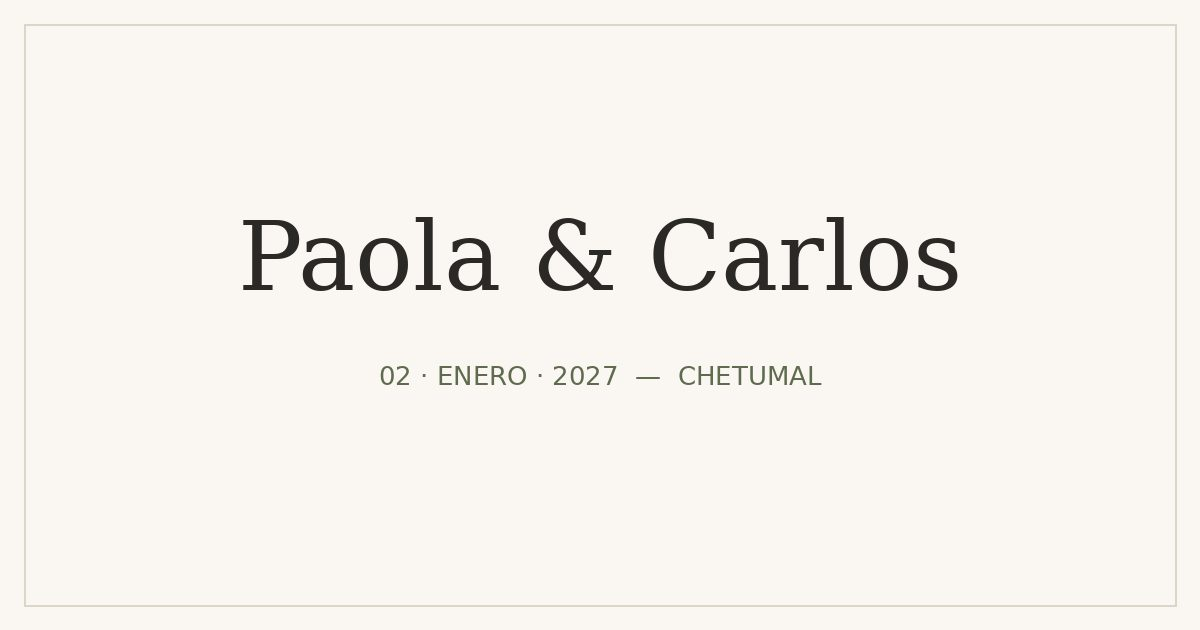
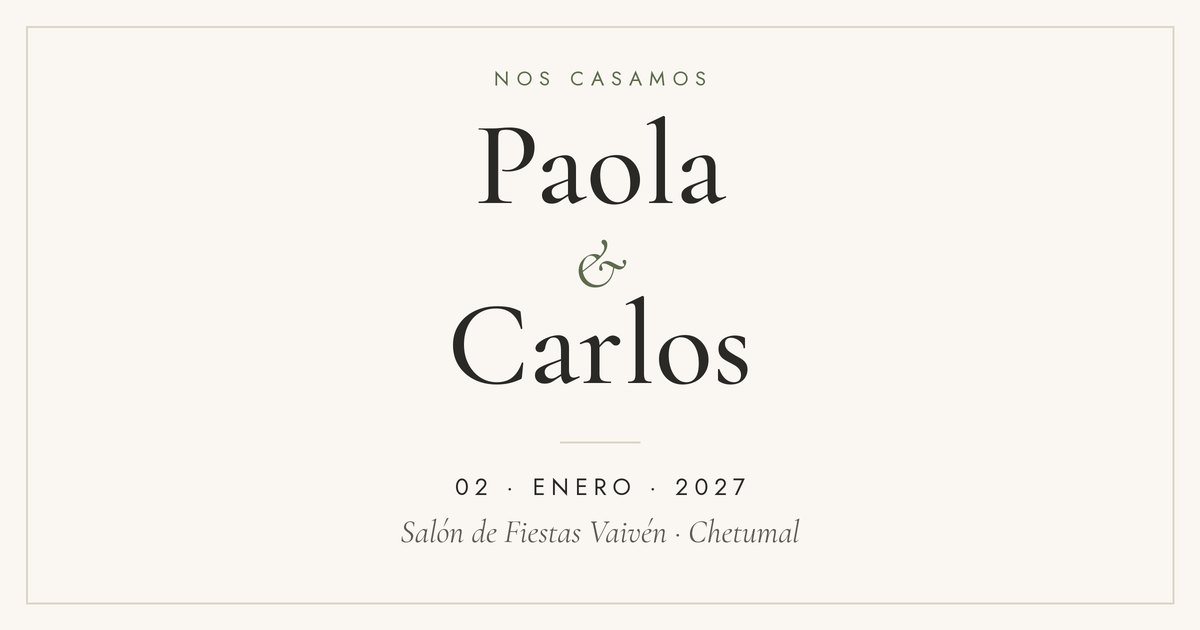
Add files via upload

diff --git a/js/config.js b/js/config.js
@@ -36,12 +36,22 @@ const CONFIG = {
     mapaEmbedURL: ""
   },
 
+  /* ---------------- BIENVENIDA ----------------
+     Aparece justo después de la portada. Cada elemento de "parrafos" es un párrafo. */
+  bienvenida: {
+    titulo: "Bienvenidos a nuestra boda",
+    parrafos: [
+      "Únanse a nosotros mientras comenzamos nuestro próximo capítulo juntos.",
+      "Tienen un lugar especial en nuestros corazones; por eso queremos que sean testigos del momento en que digamos: «¡Sí, acepto!»"
+    ]
+  },
+
   /* ---------------- TEXTOS POÉTICOS ----------------
      Frases breves que acompañan cada sección. Puedes cambiarlas o dejar ""
      para ocultar cualquiera. Todas son originales, salvo la de Bécquer
      (dominio público). */
   poesia: {
-    hero: "Una tarde de enero, frente a quienes más queremos, diremos que sí.",
+    hero: "Frente a la bahía, al caer la tarde.",
     epigrafe: {
       versos: [
         "Por una mirada, un mundo;",
@@ -111,19 +121,13 @@ const CONFIG = {
   /* ---------------- CÓDIGO DE VESTIMENTA ---------------- */
   vestimenta: {
     tipo: "Formal",
-    descripcion: "Traje para ellos; vestido largo o de cóctel para ellas. La celebración es en interior.",  // PENDIENTE: confirmar
-    sugeridos: [
-      { nombre: "Verde olivo", hex: "#6B7350" },
-      { nombre: "Azul bahía",  hex: "#3F5F73" },
-      { nombre: "Terracota",   hex: "#B4694A" },
-      { nombre: "Arena",       hex: "#D9C7A7" },
-      { nombre: "Gris carbón", hex: "#3A3A3A" }
-    ],
-    noRecomendados: [
-      { nombre: "Blanco",  hex: "#FFFFFF", nota: "Reservado para la novia" },
-      { nombre: "Marfil",  hex: "#F3EBDD", nota: "" },
-      { nombre: "Champán", hex: "#E8D7B9", nota: "" }
-    ]
+    descripcion: "Los invitamos a vestir de manera formal pero cómoda. Nuestro único deseo es que se sientan increíbles y listos para celebrar con nosotros. Siéntanse libres de elegir su mejor conjunto.",
+    // Recomendación práctica (deja "" para ocultarla)
+    aviso: "Estaremos frente a la Bahía de Chetumal: habrá viento y seguramente estará fresco. Les sugerimos llevar un suéter, saco o chal ligero.",
+    // Paletas de color opcionales. Si las dos listas están vacías, no se muestran.
+    // Formato: { nombre: "Verde olivo", hex: "#6B7350", nota: "" }
+    sugeridos: [],
+    noRecomendados: []
   },
 
   /* ---------------- GALERÍA ----------------
@@ -141,22 +145,27 @@ const CONFIG = {
   /* ---------------- HOSPEDAJE ---------------- */
   hospedaje: {
     intro: "Algunas opciones para quienes nos visitan desde fuera de Chetumal.",
+    // Campos opcionales por hotel: nota (texto breve) y boton (texto del botón).
     hoteles: [
-      { nombre: "Fiesta Inn Chetumal",              distancia: "Distancia por confirmar", nota: "", url: "https://www.google.com/maps/search/?api=1&query=Fiesta+Inn+Chetumal" },             // PENDIENTE
-      { nombre: "Hotel Los Cocos",                  distancia: "Distancia por confirmar", nota: "", url: "https://www.google.com/maps/search/?api=1&query=Hotel+Los+Cocos+Chetumal" },         // PENDIENTE
-      { nombre: "Holiday Inn Chetumal Puerta Maya", distancia: "Distancia por confirmar", nota: "", url: "https://www.google.com/maps/search/?api=1&query=Holiday+Inn+Chetumal+Puerta+Maya" } // PENDIENTE
+      { nombre: "Hotel Urban101 Chetumal", url: "https://maps.app.goo.gl/TxBWssqMbcDaNdRg9" },
+      { nombre: "Fiesta Inn Chetumal",     url: "https://www.google.com/maps/search/?api=1&query=Fiesta+Inn+Chetumal" },
+      { nombre: "Hotel Los Cocos",         url: "https://www.google.com/maps/search/?api=1&query=Hotel+Los+Cocos+Chetumal" }
     ]
   },
 
   /* ---------------- MESA DE REGALOS ---------------- */
   regalos: {
-    mensaje: "Su presencia es lo más importante. Si desean hacernos un regalo, dejamos estas opciones.",
+    mensaje: "El mejor regalo que podemos recibir en este día tan especial es su presencia y sus buenos deseos. Si además desean tener un detalle con nosotros, ponemos a su disposición nuestra wishlist.",
     enlaces: [
-      // PENDIENTE: agrega aquí tus mesas de regalos reales, por ejemplo:
-      // { nombre: "Mesa de regalos Liverpool", detalle: "Evento n.º 00000000", url: "https://mesaderegalos.liverpool.com.mx/" },
+      { nombre: "Nuestra wishlist", detalle: "Mesa de regalos en Amazon", url: "https://www.amazon.com.mx/wedding/guest-view/2US8J5QRJHBU6" }
+    ],
+    // Párrafos que aparecen debajo de los enlaces
+    notas: [
+      "O, si lo prefieren, contaremos con un cofre con sobres para efectivo.",
+      "Gracias por formar parte de nuestras vidas."
     ],
     transferencia: {
-      mostrar: false,                // PENDIENTE: cambiar a true cuando tengas los datos
+      mostrar: false,                // true para mostrar datos bancarios
       banco: "Nombre del banco",
       titular: "Nombre del titular",
       clabe: "000000000000000000",

diff --git a/js/main.js b/js/main.js
@@ -107,6 +107,14 @@
     io.observe(node);
   }
 
+  /* ---------- 2b. Bienvenida ---------- */
+  function renderBienvenida() {
+    const b = CONFIG.bienvenida;
+    if (!b || (!b.titulo && !(b.parrafos || []).length)) { $("#bienvenida").hidden = true; return; }
+    $("#bienvenida-titulo").textContent = b.titulo || "";
+    (b.parrafos || []).forEach(t => $("#bienvenida-texto").append(el("p", { text: t })));
+  }
+
   /* ---------- 3. Navegación ---------- */
   function initNav() {
     const nav = $("#nav"), btn = $(".nav__toggle"), menu = $("#nav-menu");
@@ -188,8 +196,14 @@
       el("span", { class: "swatch__chip", style: `background:${c.hex}`, "aria-hidden": "true" }),
       el("span", { class: "swatch__name", text: c.nombre }),
       c.nota && el("span", { class: "swatch__note", text: c.nota }));
-    v.sugeridos.forEach(c => $("#colores-sugeridos").append(swatch(c)));
-    v.noRecomendados.forEach(c => $("#colores-evitar").append(swatch(c)));
+    const sug = v.sugeridos || [], evi = v.noRecomendados || [];
+    sug.forEach(c => $("#colores-sugeridos").append(swatch(c)));
+    evi.forEach(c => $("#colores-evitar").append(swatch(c)));
+    // Oculta cada paleta vacía, y el bloque completo si no hay ninguna
+    $("#colores-sugeridos").parentElement.hidden = !sug.length;
+    $("#colores-evitar").parentElement.hidden = !evi.length;
+    $("#vestimenta-colores").hidden = !sug.length && !evi.length;
+    if (v.aviso) { $("#vestimenta-aviso").textContent = v.aviso; $("#vestimenta-aviso").hidden = false; }
   }
 
   /* ---------- 6. Galería: carrusel + lightbox ---------- */
@@ -285,10 +299,10 @@
     CONFIG.hospedaje.hoteles.forEach(h => {
       $("#hoteles-lista").append(el("li", { class: "card reveal" },
         el("h3", { class: "card__title", text: h.nombre }),
-        el("p", { class: "card__meta", text: h.distancia }),
+        h.distancia && el("p", { class: "card__meta", text: h.distancia }),
         h.nota && el("p", { class: "card__note", text: h.nota }),
         el("span", { class: "card__spacer" }),
-        el("a", { class: "btn btn--ghost", href: h.url, target: "_blank", rel: "noopener", text: "Ver y reservar" })));
+        el("a", { class: "btn btn--ghost", href: h.url, target: "_blank", rel: "noopener", text: h.boton || "Ver ubicación" })));
     });
   }
 
@@ -296,7 +310,8 @@
     const r = CONFIG.regalos;
     $("#regalos-mensaje").textContent = r.mensaje;
     // Sin enlaces ni transferencia: se oculta la sección completa
-    if (!r.enlaces.length && !(r.transferencia && r.transferencia.mostrar)) {
+    (r.notas || []).forEach(t => $("#regalos-notas").append(el("p", { text: t })));
+    if (!r.enlaces.length && !(r.notas || []).length && !(r.transferencia && r.transferencia.mostrar)) {
       $("#regalos").hidden = true;
       $$('[data-nav="regalos"]').forEach(a => { a.hidden = true; });
       return;
@@ -712,7 +727,7 @@
   /* ---------- Arranque ---------- */
   document.addEventListener("DOMContentLoaded", () => {
     document.documentElement.classList.remove("no-js");
-    const pasos = [renderGenerales, initNav, initCountdown, renderHistoria, renderItinerario,
+    const pasos = [renderGenerales, renderBienvenida, initNav, initCountdown, renderHistoria, renderItinerario,
       renderVestimenta, initGaleria, renderHospedaje, renderRegalos, renderFAQ, renderContacto,
       initCalendario, initRSVP, initReveal];
     // Si una sección falla (p. ej. un error de dedo en config.js), las demás siguen funcionando

diff --git a/css/styles.css b/css/styles.css
@@ -215,6 +215,24 @@ button { font: inherit; color: inherit; }
 .footer__verse { font-family: var(--font-display); font-style: italic; font-size: 1.3rem; color: var(--ink-soft); margin-bottom: 1.5rem; }
 .rsvp__mesa { font-family: var(--font-display); font-size: 1.5rem; color: var(--accent); }
 
+/* ---------- 6c. Bienvenida ---------- */
+.welcome { padding: clamp(4.5rem, 12vw, 7rem) 1.25rem 0; text-align: center; background: var(--bg); }
+.welcome__inner { max-width: 34rem; margin: 0 auto; }
+.welcome__title { font-size: clamp(2.2rem, 8vw, 3.2rem); margin-bottom: 1.5rem; }
+.welcome__text p { font-family: var(--font-display); font-size: clamp(1.3rem, 4.6vw, 1.55rem); line-height: 1.5; color: var(--ink-soft); margin-bottom: 1rem; }
+.welcome__text p:last-child { margin-bottom: 0; }
+
+/* ---------- 6d. Vestimenta: aviso / Regalos: notas ---------- */
+.dress__note {
+  max-width: 30rem; margin: 0 auto; padding: 1rem 1.25rem; text-align: center;
+  border-top: 1px solid var(--line); border-bottom: 1px solid var(--line);
+  font-size: .95rem; color: var(--ink-soft);
+}
+.dress__note + .dress { margin-top: 2.5rem; }
+.gifts__notes { text-align: center; margin-top: 2rem; }
+.gifts__notes p { color: var(--ink-soft); margin-bottom: .6rem; }
+.gifts__notes p:last-child { font-family: var(--font-display); font-style: italic; font-size: 1.35rem; color: var(--ink); margin-top: 1.25rem; }
+
 /* ---------- 7. Historia (línea del tiempo) ---------- */
 .story { position: relative; display: grid; gap: clamp(3rem, 8vw, 5rem); }
 .story::before {

diff --git a/README.md b/README.md
@@ -51,14 +51,14 @@ El enlace actual de Maps es una búsqueda por nombre del salón; funciona, pero 
 ## 3. Publicar en GitHub Pages
 
 1. Crea una cuenta en github.com (si no tienes).
-2. Botón **New repository**. Nómbralo exactamente `TU-USUARIO.github.io` (con tu nombre de usuario). Así el sitio queda en la dirección raíz, sin carpetas: `https://TU-USUARIO.github.io/`. Visibilidad: **Public** (Pages gratuito requiere repositorio público en cuentas gratuitas).
+2. Botón **New repository**. Nómbralo exactamente `paolaycarlos.github.io` (con tu nombre de usuario). Así el sitio queda en la dirección raíz, sin carpetas: `https://paolaycarlos.github.io/`. Visibilidad: **Public** (Pages gratuito requiere repositorio público en cuentas gratuitas).
    - El nombre de usuario no se compra: es gratuito y forma parte de la dirección. Elígelo pensando en eso (p. ej. `paolaycarlos`).
 3. En el repositorio: **Add file → Upload files**. Arrastra el *contenido* de la carpeta `sitio` (no la carpeta en sí): `index.html`, `.nojekyll`, `css/`, `js/`, `img/`, `README.md`.
    - Si no ves `.nojekyll` por ser archivo oculto, no pasa nada: el sitio funciona sin él.
 4. **Commit changes**.
 5. **Settings → Pages → Build and deployment → Source: Deploy from a branch → Branch: `main` / `(root)` → Save**.
-6. En 1–3 minutos el sitio queda en `https://TU-USUARIO.github.io/`.
-7. Edita `og:image` en `index.html` con la URL completa: `https://TU-USUARIO.github.io/img/compartir.jpg` (WhatsApp la necesita absoluta para la vista previa).
+6. En 1–3 minutos el sitio queda en `https://paolaycarlos.github.io/`.
+7. En `index.html`, busca las dos líneas marcadas con `← EDITAR` (`og:url` y `og:image`) y reemplaza `paolaycarlos` por tu usuario. Sin la dirección completa, WhatsApp no muestra la imagen de vista previa.
 
 Para cambios posteriores: abre el archivo en GitHub, ícono de lápiz, edita, **Commit**. Se actualiza en un par de minutos (si no ves el cambio en el teléfono, recarga o abre en ventana privada).
 
@@ -152,17 +152,17 @@ Si tienes Microsoft 365 empresarial, Power Automate puede avisarte por correo cu
 
 ## 7. Generar códigos QR
 
-**Un QR general (al sitio):** usa la URL `https://TU-USUARIO.github.io/`.
+**Un QR general (al sitio):** usa la URL `https://paolaycarlos.github.io/`.
 
 **Un QR por familia (recomendado):** el sitio acepta el código en la URL y valida automáticamente al abrir:
 
 ```
-https://TU-USUARIO.github.io/?i=K7QM4A
+https://paolaycarlos.github.io/?i=K7QM4A
 ```
 
 El invitado escanea o toca el enlace y llega directo a su confirmación, sin teclear nada. El enlace no muestra nombres: solo un código como `?i=K7QM4A`.
 
-`invitados.csv` ya trae el enlace personal de cada grupo; solo reemplaza `TU-USUARIO` por tu usuario de GitHub (en Excel o Sheets: Buscar y reemplazar).
+`invitados.csv` ya trae el enlace personal de cada grupo; solo reemplaza `paolaycarlos` por tu usuario de GitHub (en Excel o Sheets: Buscar y reemplazar).
 
 Opciones para generarlos:
 
@@ -173,12 +173,12 @@ Opciones para generarlos:
   ```
   ```python
   import qrcode
-  BASE = "https://TU-USUARIO.github.io/?i={}"
+  BASE = "https://paolaycarlos.github.io/?i={}"
   codigos = ["K7QM4A", "P3XT9C", "M4HQ7R"]   # o léelos de invitados.csv
   for c in codigos:
       qrcode.make(BASE.format(c), box_size=12, border=2).save(f"qr-{c}.png")
   ```
-- **En Google Sheets** (columna junto al código): `=IMAGE("https://api.qrserver.com/v1/create-qr-code/?size=300x300&data="&ENCODEURL("https://TU-USUARIO.github.io/?i="&A2))`
+- **En Google Sheets** (columna junto al código): `=IMAGE("https://api.qrserver.com/v1/create-qr-code/?size=300x300&data="&ENCODEURL("https://paolaycarlos.github.io/?i="&A2))`
   (Si tu hoja está en configuración regional de México y marca error, cambia las comas por punto y coma.)
 
 Imprime el QR de al menos 2 × 2 cm y pruébalo con dos teléfonos distintos antes de mandar a imprenta.
